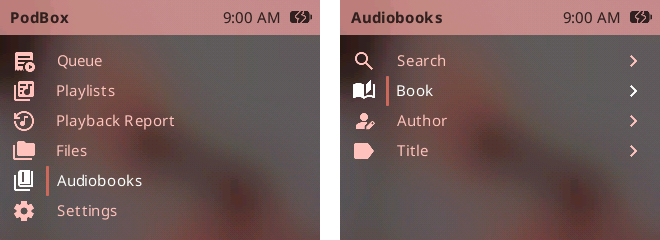
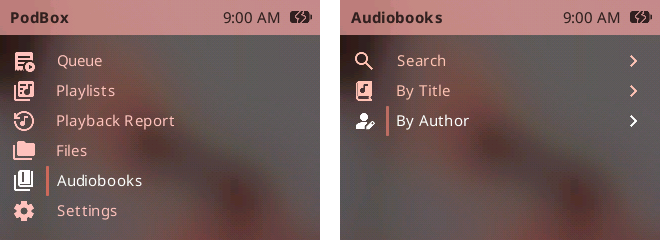
Docs: the new release, and the audit's setting change
Support iPhone Accessories takes effect at the next connection.

Claude-Session: https://claude.ai/code/session_01HTB8iKn3HdVfzTKrB4WXRK

diff --git a/README.md b/README.md
@@ -38,7 +38,9 @@ panels and a spectrum visualiser. It comes in two variants with different Now Pl
 - Choose what is on the main menu and in what order, including items promoted from the Music menu
   - `Settings > Appearance > Menus > Edit Main Menu`
 - Choose what is in the Music menu and all the context menus
-  - `Settings > Library > Menus`
+  - `Settings > Appearance > Menus`
+- Change a theme's configuration on the player
+  - `Settings > Appearance > Theme Options`, when the theme offers them.
 - Show album art or artist art on the Now Playing screen
   - Theme dependent (the theme must show album art)
   - `Settings > Appearance > Now Playing Screen > Now Playing Artwork`
@@ -51,6 +53,13 @@ panels and a spectrum visualiser. It comes in two variants with different Now Pl
 - Message, input, confirmation, search, colour, date and time and folder dialogs share one
   themed design
   - `Settings > Appearance > Dialogs`
+- Hold `Select` on a track, folder or file and select `Select...`
+  - Click `Select` to tick or untick a row; hold `Select` and turn the wheel to tick a run of
+    rows, and turn back to untick them
+  - `Play/Pause` opens a menu for the ticked rows: play them, queue them or add them to a
+    playlist; in the Queue, `Move Here` puts them after the selected track and `Remove` takes
+    them out; in `Files`, `Cut`, `Copy` and `Delete`
+  - `Menu` leaves without doing anything
 
 ## Music
 
@@ -73,6 +82,11 @@ or promoted onto the main menu.
   - Off by default. `Settings > Library > Music > Sort > Ignore The/A/An`
 - Play a random album
   - `Music > Random Album`
+- Shuffle albums rather than tracks: every album in a list, in a random order, each whole and in
+  order
+  - `[Shuffle Albums]` at the top of any list of two or more albums
+- See an album's cover, artist, year, track count and length above its tracks
+  - Theme dependent. Scrim shows it, and `Album Header` in its Theme Options turns it off
 - See your most played, most recently played and forgotten albums and artists
   - `Music > Playback History`
 - See how much of an album or artist you have listened to
@@ -90,7 +104,7 @@ Results appear as you type, across tracks, albums and artists. The grid keyboard
 replaced by a single-line editor driven by the click wheel.
 
 - `Music > Search`
-- Choose how results are ordered in `Settings > Library > Music > Search`
+- Choose how results are ordered in `Settings > Library > Search`
 
 ## Audiobooks
 
@@ -101,13 +115,13 @@ their own.
 
 - Give audiobooks their own main menu entry, and keep them out of Music and the carousels
   - Off by default. `Settings > Library > Music > Segregate Audiobooks`
-  - A book is a track with the genre "audiobook", "spoken word", "book", "podcast" or "podcasts"
+  - A book is a track with the genre "audiobook", "spoken word" or "book"
 - Book covers and author photos beside their rows
   - Theme dependent
-  - Off by default. `Settings > Appearance > Interface Elements > Art Rows > Audiobook Art Rows`/`Author Art Rows`
+  - `Settings > Appearance > Interface Elements > Art Rows > Audiobook Art Rows` (on by default)/`Audiobook Author Art Rows`
 - See which books you have finished, not started or are part-way through
-  - Scroll up above the first book in `Audiobooks > Book` for `Finished`, `Not Started` and
-    `In Progress`. A list with no books in it is not shown
+  - `Audiobooks` has `Search`, `Finished`, `Not Started`, `In Progress`, `By Title` and
+    `By Author`. A list with no books in it is not shown
   - Choosing a book plays it, from where you left off if you have started it
   - Hold `Select` on a book and select `Mark as...` to move it between the lists. The mark lasts
     until the book is next played
@@ -116,12 +130,40 @@ their own.
   - A book with bookmarks has a `Bookmarks` row in its menu, in Now Playing's `More...` and when
     you hold `Select` on the book. Choosing one plays the book from there; hold `Select` on one to
     delete it
-  - Bookmarks Rockbox made in a book (`.bmark` files beside its folder or your playlists) are
-    carried over once, the first time bookmarks are opened
 - See the chapters of a book held in a single file
   - Off by default. `Settings > Playback > Chapter Marks`
   - Reads the chapter marks in `.m4b` books and the chapter frames in `.mp3` ones
   - While a book plays, hold `Select` on the Now Playing screen and choose `Browse Chapters`
+- Play audiobooks and podcasts faster or slower without changing the voice, and leave music as it is
+  - `Settings > Playback > Spoken Word Speed`, or hold `Select` on the Now Playing screen
+- Skip a fixed time in a book rather than a whole track
+  - `Settings > Playback > Spoken Word Skip Length`. Follows `Skip Length` until you set it
+- Fall asleep at the end of a chapter
+  - While a book plays, hold `Select` on the Now Playing screen, choose `Sleep Timer` and then
+    `End of Chapter`
+
+## Podcasts
+
+<img src="docs/podbox/images/ss_grid_podcasts.png"/>
+
+Each episode keeps its place, and a show opens on its newest episode.
+
+- Give podcasts their own main menu entry, and keep them out of Music and the carousels
+  - Off by default. `Settings > Library > Music > Segregate Podcasts`
+  - A podcast is a track with the genre "podcast" or "podcasts"
+- Shows listed by name, or the show with the newest episode first
+  - `Settings > Library > Music > Sort > Shows By`
+- `Search`, `[In Progress]`, `[Not Started]`, `[Finished]` and `[All Episodes]` above the shows
+- A show opens on its newest episode, with `[Play Unplayed]` above it
+- An episode's notes under the list
+  - Theme dependent. Scrim shows them, and `Episode Notes` in its Theme Options turns them off
+- Hold `Select` on an episode for `Mark as Played`, `Mark as Unplayed` and `Mark Older as Played`,
+  and on a show for `Mark All as Played` and `Delete Played Episodes`
+- Show art beside the rows
+  - Theme dependent
+  - `Settings > Appearance > Interface Elements > Art Rows > Podcast Art Rows` (on by default)
+- Choose whether Search lists matching episodes or shows first
+  - `Settings > Library > Search > Podcast Order`
 
 ## Album Covers and Artist Portraits
 
@@ -158,17 +200,58 @@ their albums. Both run much faster than Rockbox's PictureFlow, particularly on t
 
 <img src="docs/podbox/images/ss_grid_apps.png" alt="Screenshot"/>
 
-A lyrics viewer follows the song line by line. The text viewer reads txt, lrc, fb2, epub, docx,
-pdf, md, html and rtf, and the image viewer is built in.
+A lyrics viewer follows the song line by line. The text viewer reads txt, lrc, fb2, epub, mobi,
+azw3, pdb, docx, pdf, md, html and rtf, and the image viewer shows JPEG (including CMYK), PNG,
+GIF, WebP and BMP pictures.
 
 - See the lyrics of what is playing
   - Press `Select + Play` on the Now Playing screen
   - `Settings > Library > Viewers > Lyrics Viewer` for how they are shown
-- Choose how documents look: font, margin, line spacing and colours
+
+- Choose how documents look: font, text size, margin, line spacing, justification, paragraph
+  indent and colours
   - `Settings > Library > Viewers > Text Viewer`
+  - `Larger Text` and `Smaller Text` step through the sizes the font comes in
+  - The backlight can stay on while you read, with a brightness of its own:
+    `Reading Backlight` and `Reading Brightness`
 - `Continue Reading` on the main menu reopens your last document where you left off
-- See every document and image on the player in one list, and search them
-  - Hidden by default. Add it with `Settings > Appearance > Edit Main Menu`
+
+- `Books` on the main menu shows every EPUB, FB2 and Kindle (MOBI, AZW3) book on the player,
+  with its cover
+  - A MOBI locked to a Kindle account will not open
+  - `Search` finds books by title or author, and `Finished`, `Not Started` and `In Progress`
+    are as `Audiobooks` has them
+  - Press `>>|` on a book's last page and it closes, shown in `Finished`
+  - `By Title`, `By Author`, and `By Subject` for the subjects the books name, each book under
+    every one of its subjects
+  - Hold `Select` on a book for `Mark as...`, which moves it between the lists, `Book Info`,
+    `Reading Stats` and `Show in Files`
+  - `Reading Stats` shows your time reading, pages a day, reading speed in words a minute, the
+    time left at that speed, when you started and finished, your longest sitting and your best
+    streak of days, for one book or for all of them
+  - See pictures inside books
+- Zoom into a picture and move around it
+  - Hold `Menu` in the image viewer and select `Zoom` for a list of zoom levels
+  - Hold `Select`, or select `Pan` in the same menu, to switch pan mode on: the wheel moves the
+    picture up and down and `|<<` and `>>|` move it sideways. Click `Menu` to switch it off
+- Footnotes are taken out of the text, and each reference reads as `[1]`. Hold `Select` on a
+  page to read the notes it refers to
+- A book's cover is its first page, and its pictures each have a page of their own
+  - On by default. `Settings > Library > Viewers > Text Viewer > Pictures`
+- Hold `|<<` for the start of the chapter and `>>|` for the next one
+- Read holding the player sideways in one hand, turning pages with `Play` and `Menu`
+  - `Settings > Library > Viewers > Text Viewer > Reading Orientation`, or double-click
+    `Play` on an upright page
+  - The button at the top works as `Menu` does upright: click it to leave, hold it for the
+    settings. Double-click the button at the bottom to swap hands, and hold it to stand the
+    page upright again. Hold the page-turning buttons to move by chapters
+- Turn the wheel to move through the book a percent at a time; `Select` goes there, any other
+  button stays put
+  - Off by default. `Settings > Library > Viewers > Text Viewer > Wheel Scrubs`
+
+- See every document and every image on the player in a list of each, search them, and list
+  them by type
+  - Hidden by default. Add it with `Settings > Appearance > Menus > Edit Main Menu`
 
 ## Playback Report
 
@@ -229,7 +312,7 @@ together.
   - Hold `Select` on the track and select `Wind Down`, then choose how long it runs: 15 minutes
     to two hours, or Default to end with your sleep timer (or at your Playlist Length)
 - Order a playlist so each track leads into the next
-  - Hold `Select` in the playlist viewer and select `Order by Sound`
+  - Hold `Select` in the playlist viewer and select `More... > Order by Sound`
 - Keep the music going when anything runs out - an album, a saved playlist or a queue - with more
   of the same
   - `Settings > Library > Playlist Engine > Continue Playing`
@@ -277,7 +360,7 @@ away.
 - Spike: on the Now Playing screen, hold `Select` and select `Play with Spike`
 - Music Quiz: `Music > Quiz`
   - Choose which questions it asks in `Settings > Library > Music > Quiz Questions`
-  - Remove it from the menu with `Settings > Library > Music > Edit Music Menu`
+  - Remove it from the menu with `Settings > Appearance > Menus > Edit Music Menu`
 
 ## Settings
 
@@ -341,6 +424,8 @@ for the full list.
   - `Settings > Library > Art Cache` for settings
   - `Settings > Library > Maintenance > Update Art Cache`/`Rebuild Art Cache`
   - `System > Background Tasks` to see what it is doing
+- The iPod Video's screen is updated by a second DMA engine while music plays, leaving more of
+  the CPU to the decoder
 - Album and artist lists come straight from the database held in memory, so Album Covers, the
   charts and Random Album open quickly
 - `Back` and `Menu` behave the same way in every menu
@@ -426,6 +511,52 @@ Artist Three
 └── Album One
     └── ...
 ```
+
+Audiobooks and podcasts follow the same shape, with the author or host in place of the artist
+and the book or show in place of the album. Give each book its own folder, whether it is one
+file or many: covers are found per folder, so books sharing a folder share a cover.
+
+```text
+Audiobooks
+├── Frank Herbert
+│   ├── Dune
+│   │   ├── 01 Chapter One.mp3
+│   │   ├── 02 Chapter Two.mp3
+│   │   ├── ...
+│   │   └── folder.jpg
+│   ├── Dune Messiah
+│   │   └── Dune Messiah.m4b
+│   └── folder.jpg
+Podcasts
+└── Show Name
+    ├── Episode One.mp3
+    ├── Episode Two.mp3
+    ├── ...
+    └── folder.jpg
+```
+
+What makes a book or a podcast is its tags, not its folder:
+
+- the genre is "audiobook", "spoken word" or "book" for a book, and "podcast" or "podcasts" for
+  a podcast
+- the album is the book's title or the show's name, on every track
+- the album artist is the author or the host
+- a book in one file (`.m4b`, or `.mp3` with chapter frames) shows its chapters, with
+  `Settings > Playback > Chapter Marks` on
+
+EPUB, FB2 and MOBI books can be anywhere on the disk, and their title and author come from the book
+itself. An image named after a book is its cover, in place of the one inside it:
+
+```text
+Books
+├── Frank Herbert
+│   ├── Dune.epub
+│   ├── Dune.jpg            (optional: replaces the cover inside the book)
+│   └── Dune Messiah.epub
+└── Ursula K. Le Guin
+    └── The Dispossessed.epub
+```
+
 ## Album and artist art
 
 Album art goes with the album's tracks as `folder.jpg` or `cover.jpg`, e.g.
@@ -441,9 +572,9 @@ grouping folder (`Artist/Albums/folder.jpg`) takes precedence for the albums und
 
 All artwork should be:
 
-- a JPEG (baseline or progressive).
-- embedded as JPEG, if embedded at all. PNG art in tags is skipped. The cache reads the art from
-  only one track per album, so put the cover in every track.
+- a JPEG (baseline or progressive), PNG, GIF, WebP or BMP file. JPEG is the quickest to process.
+- embedded as JPEG or PNG, if embedded at all - the cache reads the art from only one track per
+  album, so put the cover in every track.
 - a sensible size - the cache stores 300x300px copies, and anything much larger takes longer to
   process.
 

diff --git a/docs/podbox/settings-guide.md b/docs/podbox/settings-guide.md
@@ -359,7 +359,7 @@ after new music, run it after `database_pb.exe`.
 
 | Setting | What it does | Default | |
 |---|---|---|---|
-| Theme Options | The loaded theme's own choices, such as what its playing screen shows. Here only when the theme offers them. Each change is saved at once and shows as soon as you leave. It can also go on the Now Playing screen's context menu: turn it on in Context Menus > Now Playing Menu. | — |  |
+| Theme Options | The loaded theme's own choices, such as what its playing screen shows. Here only when the theme offers them. Each change is saved at once and shows as soon as you leave. It can also go on the Now Playing screen's context menu: turn it on in Context Menus > Now Playing Menu. It is not offered there for a theme that has to reload to show a change, since reloading stops the music. | — |  |
 | Font | The typeface used throughout the interface. A larger font is easier to read and fits fewer rows on screen. | — |  |
 
 ### Appearance — Skins
@@ -599,7 +599,7 @@ Shadow Colour only while there is a shadow to colour.
 |---|---|---|---|
 | Line Out | Enables the dock's line output, which bypasses the volume control and feeds an amplifier at a fixed level. | Yes | **Adv** |
 | Accessory Protocol | Answers docks, car kits and remotes that speak Apple's accessory protocol, over the dock connector or USB. Off, they get no reply: a dock charges but will not play or take its remote. Changes to USB take effect at the next connection. | Yes | **Adv** |
-| Support iPhone Accessories | Answers cars and other accessories that expect an iPhone, over USB. Auto knows a car by a request of Apple's that a car sends and a computer does not, and waits a second before handing a computer the disk, so a car never takes it. On answers any accessory that asks and never offers the disk: a computer gets none, and may retry the connection for a moment first. Off answers none, as an iPod does. Shown only while Accessory Protocol is on. With USB Sound Card on, a car makes the player drop off USB for a moment and come back without the sound card. | Auto | **Adv** |
+| Support iPhone Accessories | Answers cars and other accessories that expect an iPhone, over USB. Auto knows a car by a request of Apple's that a car sends and a computer does not, and waits a second before handing a computer the disk, so a car never takes it. On answers any accessory that asks and never offers the disk: a computer gets none, and may retry the connection for a moment first. Off answers none, as an iPod does. Changes take effect at the next connection. Shown only while Accessory Protocol is on. With USB Sound Card on, a car makes the player drop off USB for a moment and come back without the sound card. | Auto | **Adv** |
 | Identify As | The model a car or dock is told the player is. Try another if an accessory takes control but plays nothing: some judge what a player can do by its model. Changes over USB take effect at the next connection. A computer with Apple's drivers may not show the disk with iPhone 4. Shown only while Accessory Protocol is on. | This Player | **Adv** |
 | Accessory Power Supply | Powers the accessory pin on the dock connector. Needed by some adapters, and a constant drain if nothing is attached. | Yes | **Adv** |
 | Accessory Browsing | Lets a receiver, car or dock browse artists, albums, genres, composers and audiobooks, up to this many songs in a list; a dock or receiver can also play Playlist Engine moods. Its memory is taken when browsing starts, or with a car's first cover, briefly rebuffering playback, and given back on unplugging. Needs the database in RAM. Off offers only the Queue and saved playlists, and a car no library at all; a car connected while it was Off sees one only once plugged in again. | 10000 | **Adv** |

diff --git a/docs/podbox/music-menu-guide.md b/docs/podbox/music-menu-guide.md
@@ -201,12 +201,12 @@ These show their own translated name whatever you write before `==>`.
 
 ## Putting a custom row on the main menu
 
-`Settings > Appearance > Edit Main Menu` lists the rows of Custom menu after
-the Music menu's own, and any of them can be switched on. Choosing one opens
-that view straight away, and **BACK** returns to the main menu.
+`Settings > Appearance > Menus > Edit Main Menu` lists the rows of Custom menu
+after the Music menu's own, and any of them can be switched on. Choosing one
+opens that view straight away, and **BACK** returns to the main menu.
 
 - **The main menu has room for 20 rows from Music, and the Music menu uses
-  most of them**, so only the first few rows of Custom menu are offered: 5
+  most of them**, so only the first few rows of Custom menu are offered: 4
   with the Music menu as it ships.
 - **A row on the main menu is remembered by its place in Custom menu.** Move
   or delete a row above it in the file and the main menu opens whichever row
@@ -222,13 +222,13 @@ to `.rockbox/tagnavi_user.config` and edit the copy. The player then reads
 your copy instead of its own, so the original stays untouched and an update
 does not overwrite your changes.
 
-Two things to know first:
+Three things to know first:
 
 - **Your copy does not change with updates.** A new row in a later version of
   PodBox does not appear until you copy the new `tagnavi.config` and make your
   edits again.
 - **Edit the Music menu's rows in place; do not add or remove them.**
-  `Settings > Library > Music > Edit Music Menu` and the main menu remember
+  `Settings > Appearance > Menus > Edit Music Menu` and the main menu remember
   rows by their position, so adding or removing one moves your choices onto
   different rows. Put new rows in Custom menu instead.
 - **Audiobooks and Podcasts are built in.** A menu with the id `audiobooks`

diff --git a/docs/podbox/text-input-guide.md b/docs/podbox/text-input-guide.md
@@ -99,12 +99,12 @@ Search puts the same editor above a live list of database matches. It is the
 best place to get a feel for the control, because results appear as you type.
 
 **Finding it.** It sits in the **Music** list directly above *Search by…*. It
-can also be added to the main menu (`Settings > Appearance > Edit Main Menu`).
+can also be added to the main menu (`Settings > Appearance > Menus > Edit Main Menu`).
 Both entries are hidden unless the database is loaded into RAM.
 
 The search runs about a second after you stop turning the wheel, not on every
 character. It waits for a minimum number of letters first, one by default;
-`Settings > Library > Music > Search > Minimum Letters` raises it if one-letter
+`Settings > Library > Search > Minimum Letters` raises it if one-letter
 searches turn up more than they are worth.
 
 **What is matched.** Case-insensitive, anywhere in the text — `beat` finds
@@ -119,7 +119,7 @@ searches turn up more than they are worth.
 Per-track artist is not searched; search the album artist instead.
 
 Tracks come first, then albums, then artists.
-`Settings > Library > Music > Search > Result Order` offers the other five arrangements, so whichever you
+`Settings > Library > Search > Music Order` offers the other five arrangements, so whichever you
 look for most can be the group you land on.
 
 ### Moving around
@@ -134,6 +134,6 @@ look for most can be the group you land on.
 reopening Search resumes where you left off and re-runs itself a moment later.
 
 The query is capped at 32 characters. How many matches are kept is
-`Settings > Library > Music > Search > Maximum Results` — 50 by default, and up to 200.
+`Settings > Library > Search > Maximum Results` — 50 by default, and up to 200.
 Raising it is rarely the answer: another letter finds the record quicker than
 scrolling does.

diff --git a/docs/podbox/playlist-engine.md b/docs/podbox/playlist-engine.md
@@ -35,7 +35,7 @@ three and a half times faster on the player, but noticeably less accurate.
   15 minutes to two hours, or Default. It plays first, and each track after
   it is calmer. Default ends with a running sleep timer; with none, it plays
   Playlist Length tracks.
-- **Order by Sound** — hold `Select` in the playlist viewer. Puts the playlist
+- **Order by Sound** — hold `Select` in the playlist viewer, under `More...`. Puts the playlist
   you already have in an order where each track leads into the next. The
   track playing stays first, tracks not yet measured go to the end, and a
   playlist of more than 100 tracks is left as it is.
